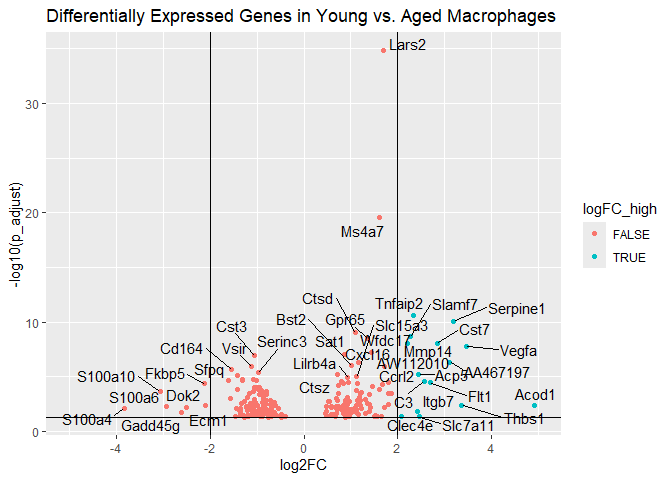
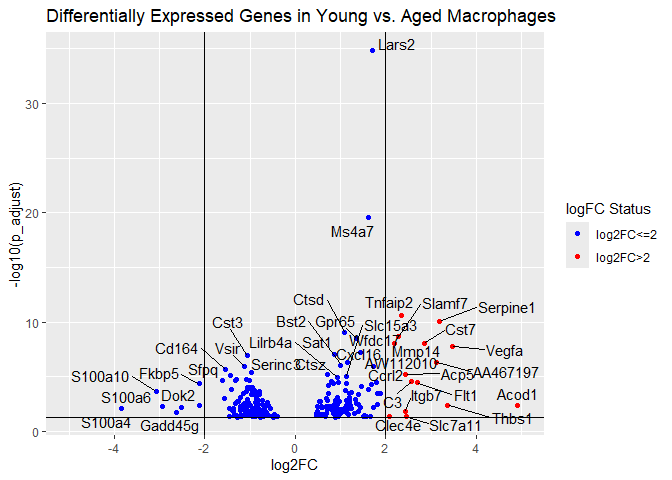
changes3

diff --git a/Projects/lizzola/flomaili.md b/Projects/lizzola/flomaili.md
@@ -137,6 +137,7 @@ one for the second data visualisation task.
       geom_hline(yintercept = -log10(0.05), linetype = "solid", color = "black") +
       geom_vline(xintercept = c(-2, 2), linetype = "solid", color = "black") +
       labs(title = title_plot1, x="log2FC") +
+      scale_color_manual(values = c("TRUE" = "red", "FALSE" = "blue"),labels = c("TRUE" = "log2FC>2", "FALSE" = "log2FC<=2"),name = "logFC Status")+
       scale_x_continuous(limits=c(-5, 5), breaks = c(-4, -2, 0, 2, 4))
 
 ![](flomaili_files/figure-markdown_strict/Plot1-1.png) I didn’t add all
@@ -160,7 +161,8 @@ Gene names to the plot as the plot would be too cluttered.
       theme_minimal() +
       theme(
         legend.position = "right",
-        axis.text.y = element_text(size = 10)
-      )
+        axis.text.y = element_text(size = 10), axis.text.x = element_text(size = 4,angle = 90, vjust = 0.5, hjust = 1), plot.title = element_text(size = 20)
+      )+
+      coord_flip()
 
 ![](flomaili_files/figure-markdown_strict/Plot%202-1.png)
